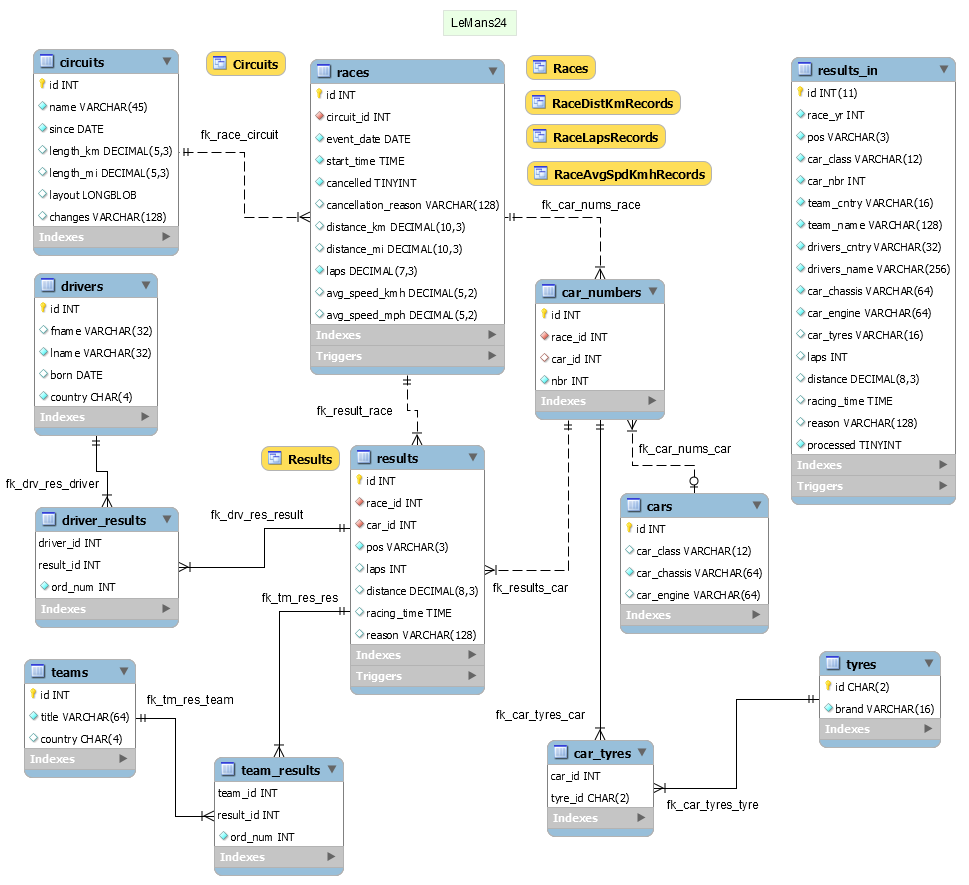
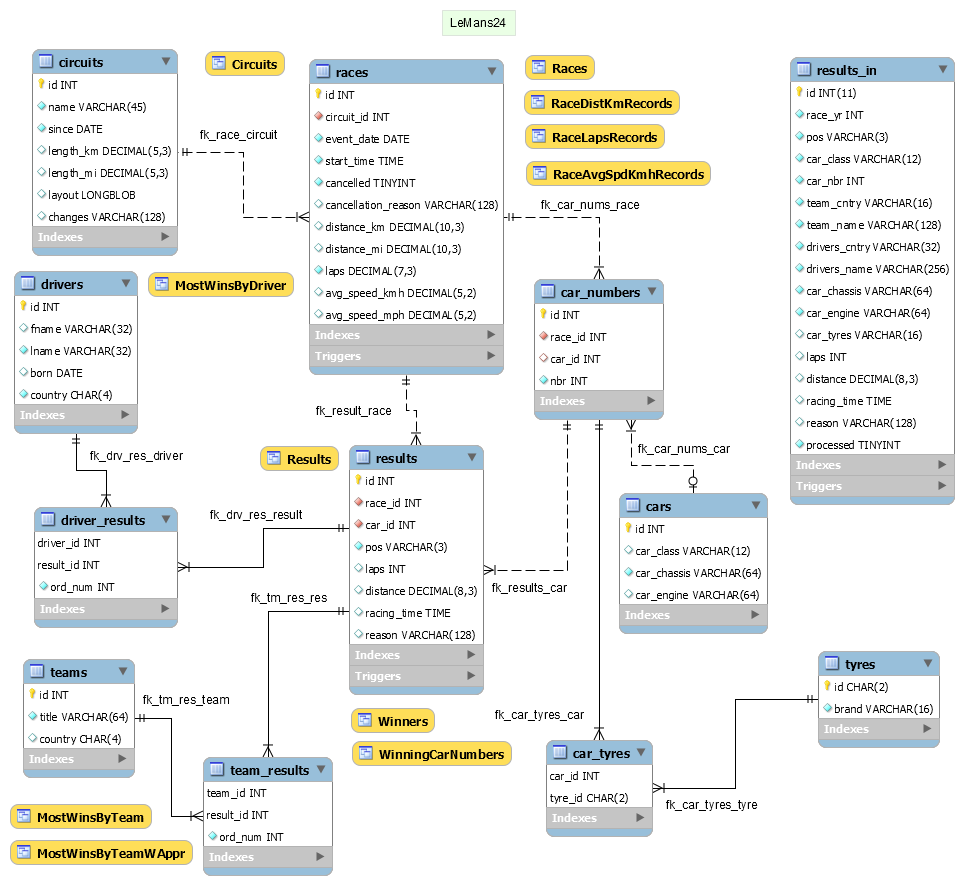
Add views MostWinsByDriver, MostWinsByTeam, MostWinsByTeamWAppr, Winners and WinningCarNumbers

diff --git a/README.md b/README.md
@@ -43,11 +43,16 @@ The model is in file [lemans24.mwb](db/model/lemans24.mwb) and is graphically re
 ## Views
 
 * `Circuits`             - List circuits length and changes per years
+* `MostWinsByDriver`     - Most wins by driver
+* `MostWinsByTeam`       - Most wins by team
+* `MostWinsByTeamWAppr`  - Most wins by team with approximations (group similar team names)
 * `RaceAvgSpdKmhRecords` - Average speed in km/h records
 * `RaceDistKmRecords`    - Distance in km records
 * `RaceLapsRecords`      - Total number of laps records
 * `Races`                - List races with distance in km and mi, laps, average speed in km/h and mi/h
 * `Results`              - Reconstruct results from different tables (used for verification of processing)
+* `Winners`              - Winners per race
+* `WinningCarNumbers`    - Winning car numbers
 
 # Routines
 
